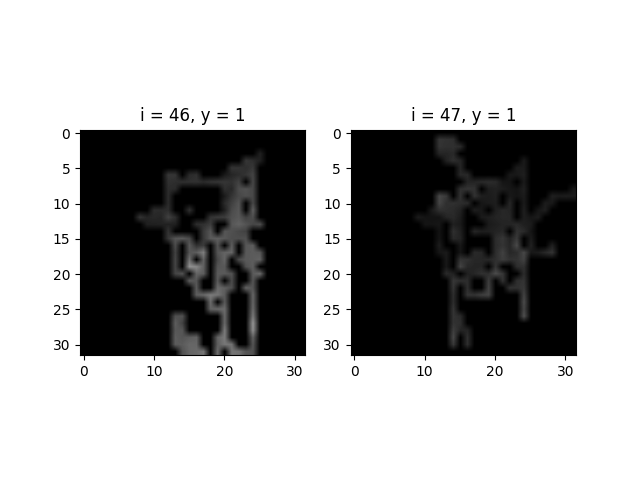
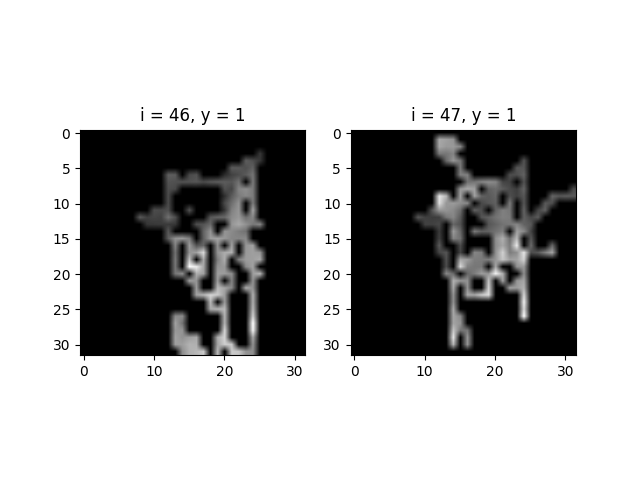
update read_data.py

Changed region(s): [[0.625, 0.2812, 0.9062, 0.75], [0.2188, 0.3125, 0.4375, 0.75]]

diff --git a/read_data.py b/read_data.py
@@ -1,6 +1,5 @@
 import numpy as np
 import matplotlib.pyplot as plt
-import matplotlib.colors as c
 from scipy.misc import imresize
 import time
 
@@ -8,7 +7,7 @@ N = 1024
 i=-1
 X = list()
 # read pm2_5 values
-with open('data_01_2018.csv', 'r') as f:
+with open('data/data_01_2018.csv', 'r') as f:
     next(f)
     for row in f:
         res = row.split(',')
@@ -26,9 +25,9 @@ with open('data_01_2018.csv', 'r') as f:
 
 # read AQI label
 y = list()
-with open('aqi_01_2018', 'r') as f:
+with open('data/aqi_01_2018', 'r') as f:
     for row in f:
-        y.append(int(row))
+        y.append(float(row))
 
 # show values
 m = timerange + 1
@@ -39,15 +38,15 @@ y = y[0:m]
 print(y.shape)
 y_ = np.copy(y)
 y_[np.argwhere(y <= 15)[:,0]] = 0
-y_[np.argwhere(np.logical_and(y > 15, y <= 35))[:,0]] = 1
-y_[np.argwhere(np.logical_and(y > 35, y <= 75))[:,0]] = 2
-y_[np.argwhere(y > 75)[:,0]] = 3
+y_[np.argwhere(np.logical_and(y > 15, y <= 50))[:,0]] = 1
+y_[np.argwhere(np.logical_and(y > 50, y <= 100))[:,0]] = 2
+y_[np.argwhere(y > 100)[:,0]] = 3
 #print(np.count_nonzero(y_ == 0))
 #print(np.count_nonzero(y_ == 1))
 #print(np.nonzero(y_ == 2))
 #print(np.count_nonzero(y_ == 3))
 
-#Visualizing CIFAR 10
+#Visualizing as image
 X = X.reshape(m, 32, 32)
 X0 = X[4]
 points = list()
@@ -62,28 +61,20 @@ values = np.asarray(values).reshape(-1,1)
 print(points.shape)
 print(values.shape)
 
-from sklearn.neighbors import KNeighborsRegressor
-neigh = KNeighborsRegressor(n_neighbors=3, weights='distance')
-neigh.fit(points, values)
-print(neigh.predict([28,25])[0][0])
-
-'''norm = c.Normalize()
-for i in range(40, 69):
+for i in range(45, 50):
     fig = plt.figure()
     #i = np.random.choice(range(len(X)))
     ax = fig.add_subplot(121)
-    ax.set_title('i = ' + str(i) + ', y = ' + str(y_[i]))
+    ax.set_title('i = ' + str(i) + ', y = ' + str(int(y_[i])))
     X_i = X[i:i+1][0]
-    #X_i = imresize(X_i, (227, 227))
-    ax.imshow(X_i, cmap='gray', norm=norm, interpolation='bilinear')
+    ax.imshow(X_i, cmap='gray', interpolation='bilinear')
 
     #i = np.random.choice(range(len(X)))
     ax = fig.add_subplot(122)
-    ax.set_title('i = ' + str(i+1) + ', y = ' + str(y_[i+1]))
+    ax.set_title('i = ' + str(i+1) + ', y = ' + str(int(y_[i+1])))
     X_i1 = X[i+1:i+2][0]
-    #X_i1 = imresize(X_i1, (227, 227))
-    ax.imshow(X_i1, cmap='gray', norm=norm, interpolation='bilinear')
+    ax.imshow(X_i1, cmap='gray', interpolation='bilinear')
 
-    plt.show()'''
+    plt.show()
 
 
